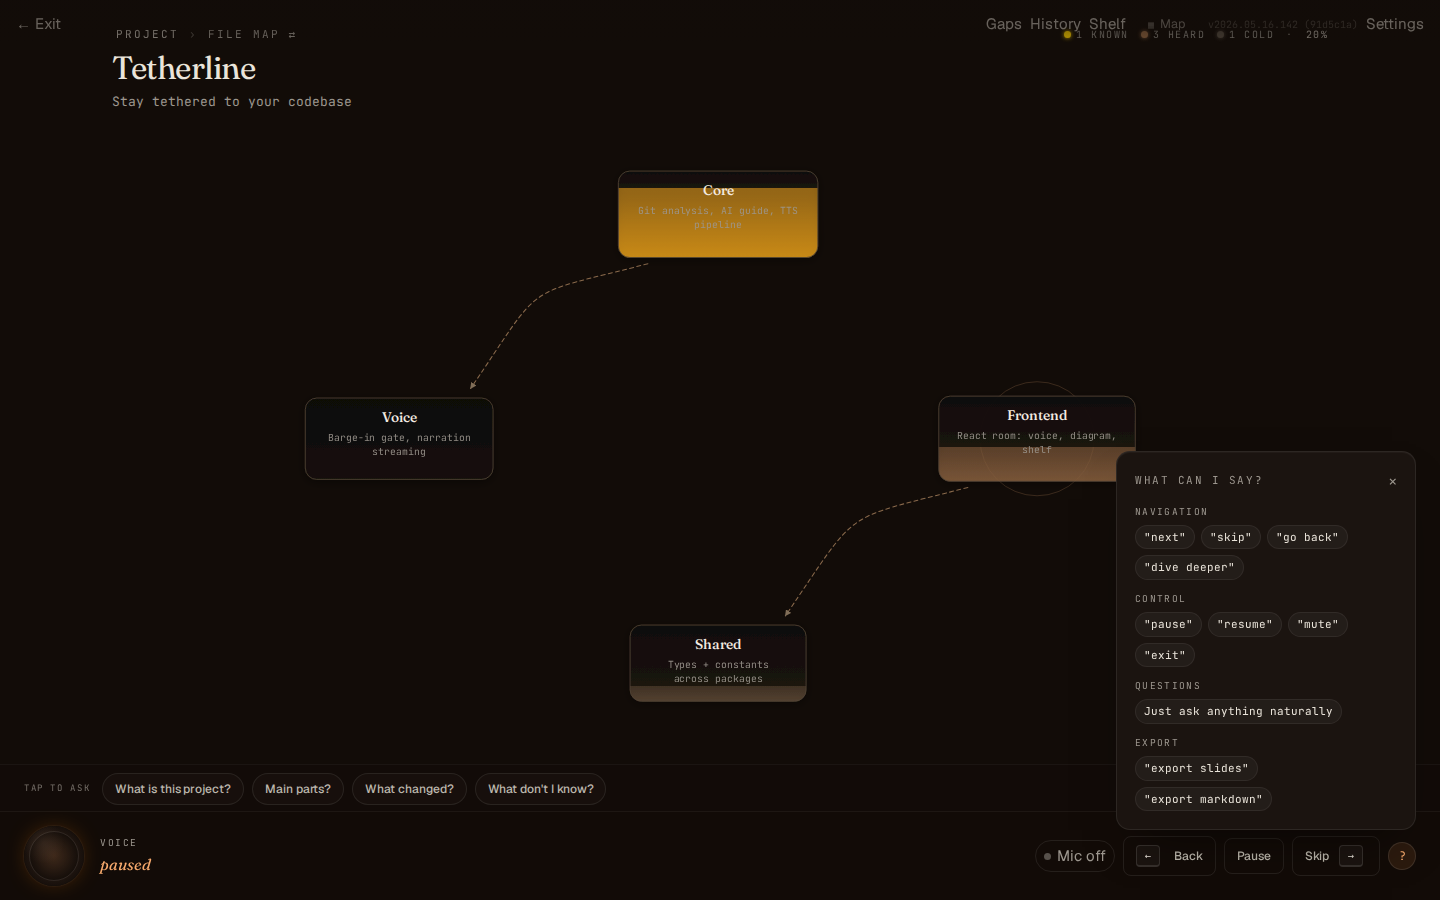
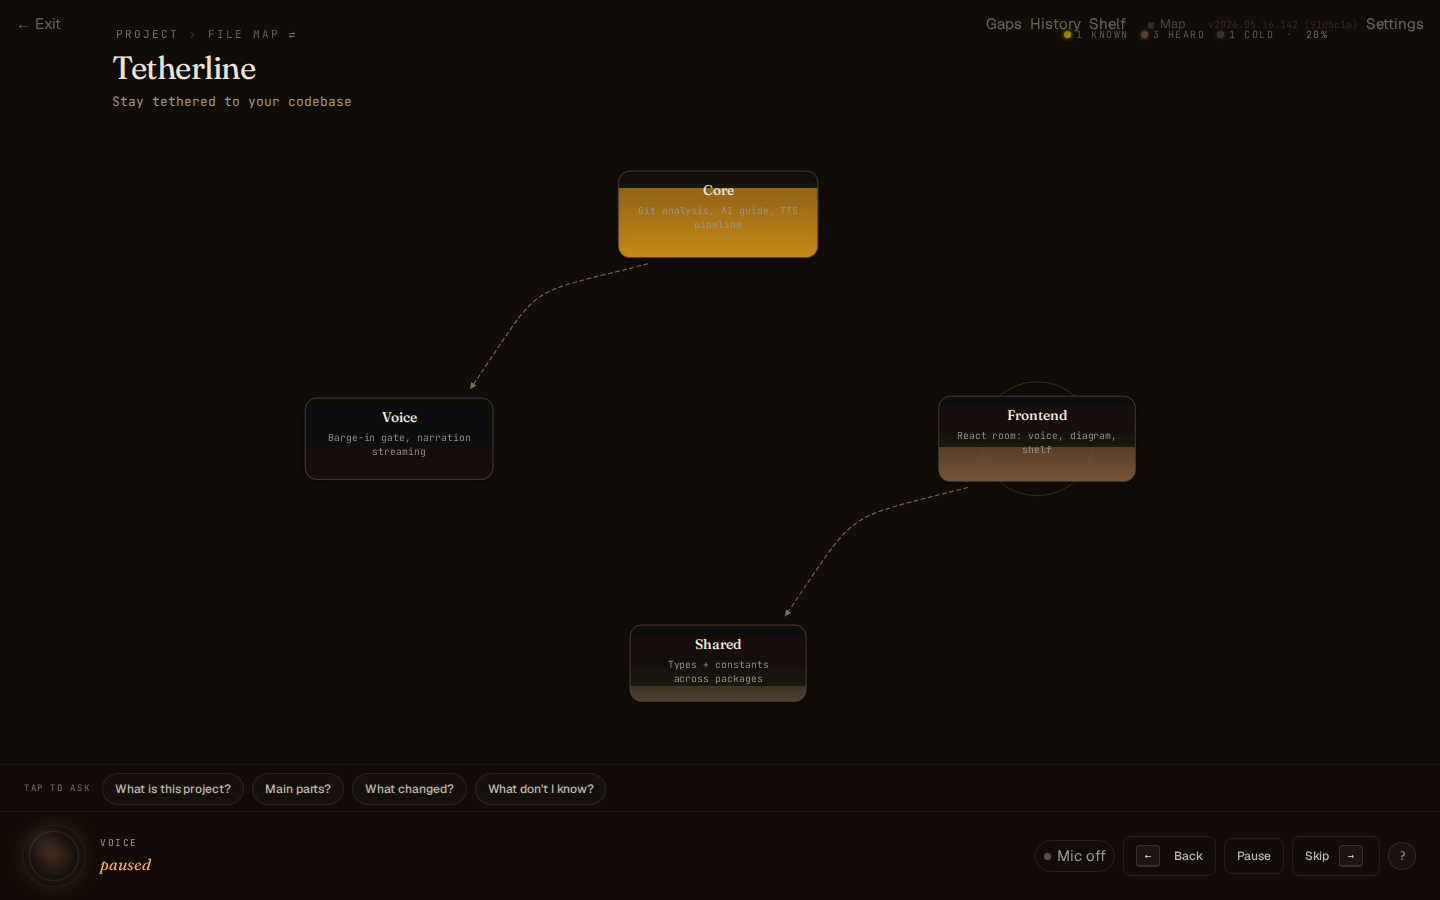
H4/H5: suppress first-run help popover in scenes (true skill state)
The "?" voice-help popover auto-opens on first load (empty
localStorage in every fresh Playwright context), obscuring the
diagram in EVERY scene. Seed localStorage in seedBase so scenes
capture the actual skill state (same philosophy as the entrance
skip). Baselines regenerated, 21/21. project-map now shows the
unobscured diagram — real H5 polish targets confirmed: top-right
chrome collision, dim node-subtitle contrast, left dead-space,
off-shape focus ring.

Changed region(s): [[0.75, 0.4978, 0.9375, 0.8089], [0.7812, 0.84, 0.875, 0.9022], [0.9062, 0.6844, 0.9375, 0.7156]]

diff --git a/packages/frontend/src/scenes/registry.ts b/packages/frontend/src/scenes/registry.ts
@@ -40,6 +40,9 @@ function basePayload(): DiagramPayload {
 }
 
 function seedBase(payload: DiagramPayload = basePayload()) {
+  // Suppress one-time onboarding nudges so scenes capture the actual
+  // skill state, not the first-run help popover / coachmarks.
+  try { localStorage.setItem('voice_help_shown', '1'); } catch { /* ssr */ }
   useSessionStore.setState({
     state: { phase: 'OVERVIEW' },
     activeRepoPath: '/scene/tetherline',
